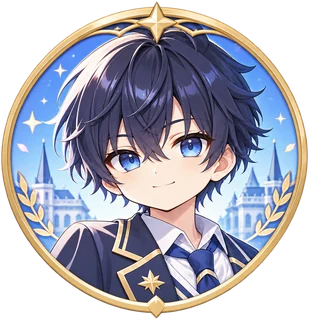
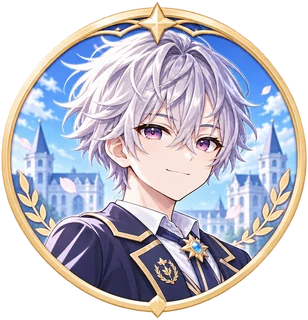
生徒の男の子の絵を入れ替え
Claude-Session: https://claude.ai/code/session_014AUDaUKt7wbipMGYhSHEXe

diff --git a/characters.js b/characters.js
@@ -76,7 +76,7 @@
   ];
 
   const PLAYERS = [
-    { id: "boy", name: "男の子", mark: "🧑", color: "#4f78b8", image: "assets/player_boy_icon.webp", icon: "assets/player_boy_icon.webp", iconFace: { x: 0.5, y: 0.52, zoom: 1.12, aspect: 877 / 847 } },
+    { id: "boy", name: "男の子", mark: "🧑", color: "#4f78b8", image: "assets/player_boy_icon.webp", icon: "assets/player_boy_icon.webp", iconFace: { x: 0.5, y: 0.52, zoom: 1.12, aspect: 881 / 847 } },
     { id: "girl", name: "女の子", mark: "🧑", color: "#c98a78", image: "assets/player_girl_icon.webp", icon: "assets/player_girl_icon.webp", iconFace: { x: 0.5, y: 0.52, zoom: 1.12, aspect: 877 / 850 } }
   ];
 
